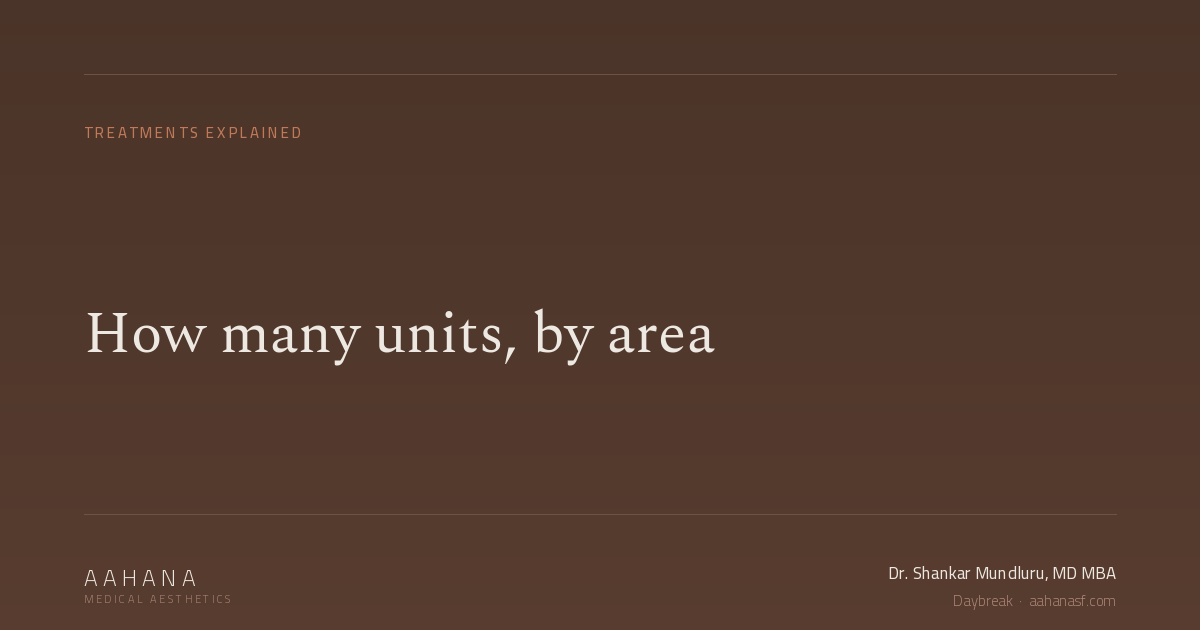
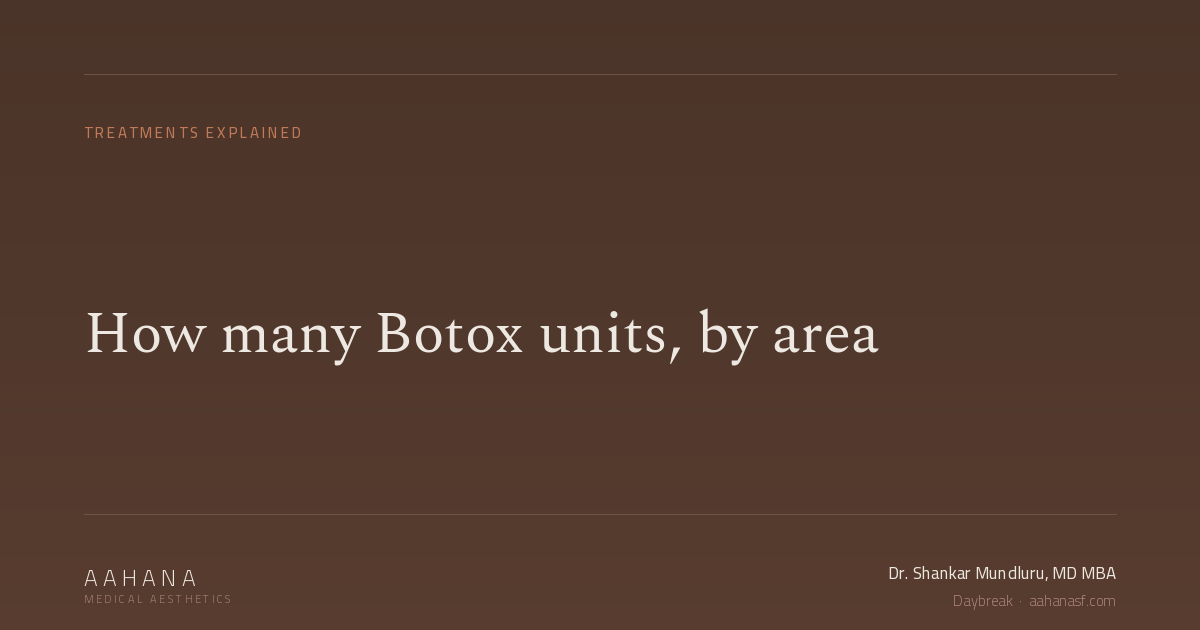
Open areas in a dialog on phones, and name Botox in the title
On a phone the full cards stacked under the diagram, so tapping an area
scrolled the face off screen and getting back meant scrolling up again. Below
860px the cards now collapse to a row each, name, muscle and range with a
chevron, and tapping either the face or a row opens the description in a
dialog that closes back to the image.

The dialog reuses the existing .care classes from service.css, so it is the
same sheet, the same close button and the same backdrop as the pre and post
care modals on the treatment pages rather than a second dialog style.

Compact mode is switched on from script, not from a media query, so with
scripting off every card renders in full and nothing is unreachable. The hint
under the diagram now says something true at each width.

Title is "How many Botox units, by area" through the h1, title tag, og:title,
breadcrumb, both schema blocks, the Daybreak card and llms.txt, and the
preview card is redrawn to match.

Claude-Session: https://claude.ai/code/session_01S5gBpo1ECg2G28LjEFYHVt

Changed region(s): [[0.3083, 0.4825, 0.74, 0.573]]

diff --git a/botox-units.html b/botox-units.html
@@ -8,13 +8,13 @@
   <link rel="apple-touch-icon" href="/apple-touch-icon.png">
   <link rel="manifest" href="/site.webmanifest">
   <meta name="theme-color" content="#4A3328">
-  <title>How Many Units of Botox by Area, San Francisco | Aahana</title>
+  <title>How Many Botox Units by Area, San Francisco | Aahana</title>
   <meta name="description" content="Every area takes a different amount. The unit range for each area of the face and neck, in Botox-equivalent units, what each one treats, and how to compare a Dysport quote.">
   <link rel="canonical" href="https://www.aahanasf.com/botox-units.html">
   <meta name="robots" content="index, follow">
 
   <meta property="og:type" content="article">
-  <meta property="og:title" content="How many units, by area">
+  <meta property="og:title" content="How many Botox units, by area">
   <meta property="og:description" content="A map of every area botulinum toxin treats, the unit range for each in Botox-equivalent units, and what treating it actually does.">
   <meta property="og:url" content="https://www.aahanasf.com/botox-units.html">
   <meta property="og:site_name" content="Aahana Medical Aesthetics">
@@ -24,7 +24,7 @@
   <meta property="og:image" content="https://www.aahanasf.com/og-botox-units.png">
   <meta property="og:image:width" content="1200">
   <meta property="og:image:height" content="630">
-  <meta property="og:image:alt" content="Treatments explained: How many units, by area">
+  <meta property="og:image:alt" content="Treatments explained: How many Botox units, by area">
   <meta name="twitter:card" content="summary_large_image">
 
   <link rel="preconnect" href="https://fonts.googleapis.com">
@@ -38,7 +38,7 @@
       {
         "@type": "Article",
         "@id": "https://www.aahanasf.com/botox-units.html#article",
-        "headline": "How many units of botulinum toxin, by area",
+        "headline": "How many Botox units, by area",
         "description": "The range of botulinum toxin units for each treatment area of the face and neck, in Botox-equivalent units, and what each area does.",
         "datePublished": "2026-10-02",
         "dateModified": "2026-10-02",
@@ -58,7 +58,7 @@
         "@type": "BreadcrumbList",
         "itemListElement": [
           { "@type": "ListItem", "position": 1, "name": "Daybreak", "item": "https://www.aahanasf.com/journal.html" },
-          { "@type": "ListItem", "position": 2, "name": "How many units, by area", "item": "https://www.aahanasf.com/botox-units.html" }
+          { "@type": "ListItem", "position": 2, "name": "How many Botox units, by area", "item": "https://www.aahanasf.com/botox-units.html" }
         ]
       },
       {
@@ -141,9 +141,40 @@
     }
     .area-note { font-size: 13.5px; line-height: 1.7; color: #5A463C; }
     @media (max-width: 860px) {
-      .map-wrap { grid-template-columns: 1fr; gap: 24px; }
+      .map-wrap { grid-template-columns: 1fr; gap: 22px; }
       .map-figure { position: static; max-width: 320px; margin: 0 auto; }
     }
+
+    /* Compact rows on a phone. Switched on by JS only, so with scripting off
+       the full cards render exactly as they do on a desktop and nothing is
+       unreachable. */
+    .hint-narrow { display: none; }
+    .map-wrap[data-compact="on"] .hint-wide   { display: none; }
+    .map-wrap[data-compact="on"] .hint-narrow { display: inline; }
+    .map-wrap[data-compact="on"] .area { position: relative; padding: 13px 38px 13px 16px; }
+    .map-wrap[data-compact="on"] .area-top { margin-bottom: 2px; }
+    .map-wrap[data-compact="on"] .area-note { display: none; }
+    .map-wrap[data-compact="on"] .area-dose { margin: 2px 0 0; font-size: 14px; }
+    .map-wrap[data-compact="on"] .area h3 { font-size: 16.5px; }
+    .map-wrap[data-compact="on"] .area::after {
+      content: ''; position: absolute; right: 17px; top: 50%;
+      width: 7px; height: 7px; margin-top: -4px;
+      border-right: 1.5px solid var(--clay); border-bottom: 1.5px solid var(--clay);
+      transform: rotate(-45deg); pointer-events: none;
+    }
+    .area-more { display: none; }
+    .map-wrap[data-compact="on"] .area-more {
+      display: block; position: absolute; inset: 0;
+      width: 100%; background: none; border: 0; padding: 0;
+      font: inherit; color: transparent; cursor: pointer;
+      border-radius: 3px;
+    }
+    .map-wrap[data-compact="on"] .area-more:focus-visible {
+      outline: 2px solid #8C4426; outline-offset: 2px;
+    }
+    .area-dialog .care-scroll .area-muscle { display: block; margin-bottom: 10px; }
+    .area-dialog .care-scroll .area-dose { font-size: 16px; margin: 0 0 12px; }
+    .area-dialog .care-scroll .area-note { font-size: 15px; line-height: 1.75; }
     @media (prefers-reduced-motion: reduce) {
       .zone, .area { transition: none; }
     }
@@ -161,8 +192,8 @@
 <main id="main">
 <section class="article-hero">
   <div class="article-hero-inner">
-    <div class="breadcrumb"><a href="journal.html">Daybreak</a> &middot; How many units, by area</div>
-    <h1 class="article-title">How many units, by area</h1>
+    <div class="breadcrumb"><a href="journal.html">Daybreak</a> &middot; How many Botox units, by area</div>
+    <h1 class="article-title">How many Botox units, by area</h1>
     <p class="article-dek">Every area takes a different amount, and the range for each is wide. Here is what each part of the face takes, what treating it actually does, and what moves an individual number within the range.</p>
     <div class="article-byline">
       Written by <strong>Dr. Shankar Mundluru, MD MBA</strong><br>
@@ -225,7 +256,7 @@
             <path    class="zone" data-area="neck" d="M166,372 C180,382 220,382 234,372 C240,390 246,402 253,414 L147,414 C154,402 160,390 166,372 Z" tabindex="0" role="button" aria-label="Neck bands"><title>Neck bands</title></path>
           </g>
         </svg>
-        <p class="map-hint">Select an area to highlight it. Every area is listed in full alongside.</p>
+        <p class="map-hint"><span class="hint-wide">Select an area to highlight it. Every area is listed in full alongside.</span><span class="hint-narrow">Tap an area for what it treats and what it takes. Every area is listed below.</span></p>
       </div>
 
       <div class="area-list">
@@ -382,22 +413,48 @@
 /* Links the diagram to the list. Everything the diagram does is a
    convenience: the cards are in the markup and readable without this. */
 (function () {
+  var wrap  = document.querySelector('.map-wrap');
   var zones = document.querySelectorAll('.zone');
   var cards = document.querySelectorAll('.area[data-area]');
-  if (!zones.length) return;
+  if (!wrap || !zones.length) return;
 
-  function setActive(key, scroll) {
+  /* Phones get compact rows plus a dialog; wide screens keep the full cards
+     beside the diagram. The switch is made here rather than in a media query
+     so that with scripting off every card stays fully readable. */
+  var narrow = window.matchMedia('(max-width: 860px)');
+  var reduce = window.matchMedia('(prefers-reduced-motion: reduce)');
+
+  var dlg = document.createElement('dialog');
+  dlg.className = 'care area-dialog';
+  dlg.innerHTML =
+    '<div class="care-head"><h3></h3>' +
+    '<button class="care-close" aria-label="Close"></button></div>' +
+    '<div class="care-scroll"></div>';
+  document.body.appendChild(dlg);
+  var dlgTitle = dlg.querySelector('h3');
+  var dlgBody  = dlg.querySelector('.care-scroll');
+  dlg.querySelector('.care-close').addEventListener('click', function () { dlg.close(); });
+  dlg.addEventListener('click', function (e) { if (e.target === dlg) dlg.close(); });
+
+  function open(key) {
+    var card = document.getElementById('area-' + key);
+    if (!card) return;
+    dlgTitle.textContent = card.querySelector('h3').textContent;
+    dlgBody.innerHTML = '';
+    ['.area-muscle', '.area-dose', '.area-note'].forEach(function (sel) {
+      var el = card.querySelector(sel);
+      if (el) dlgBody.appendChild(el.cloneNode(true));
+    });
+    if (typeof dlg.showModal === 'function') dlg.showModal(); else dlg.setAttribute('open', '');
+  }
+
+  function setActive(key, act) {
     zones.forEach(function (z) { z.classList.toggle('is-active', z.dataset.area === key); });
     cards.forEach(function (c) { c.classList.toggle('is-active', c.dataset.area === key); });
-    if (scroll) {
-      var card = document.getElementById('area-' + key);
-      if (card) {
-        card.scrollIntoView({
-          behavior: window.matchMedia('(prefers-reduced-motion: reduce)').matches ? 'auto' : 'smooth',
-          block: 'start'
-        });
-      }
-    }
+    if (!act) return;
+    if (narrow.matches) { open(key); return; }
+    var card = document.getElementById('area-' + key);
+    if (card) card.scrollIntoView({ behavior: reduce.matches ? 'auto' : 'smooth', block: 'start' });
   }
 
   zones.forEach(function (z) {
@@ -410,8 +467,24 @@
   });
 
   cards.forEach(function (c) {
-    c.addEventListener('mouseenter', function () { setActive(c.dataset.area, false); });
+    c.addEventListener('mouseenter', function () {
+      if (!narrow.matches) setActive(c.dataset.area, false);
+    });
+    var b = document.createElement('button');
+    b.type = 'button';
+    b.className = 'area-more';
+    b.textContent = 'More';
+    b.setAttribute('aria-label',
+      c.querySelector('h3').textContent + ', ' +
+      c.querySelector('.area-dose').textContent + '. Read more');
+    b.addEventListener('click', function () { open(c.dataset.area); });
+    c.appendChild(b);
   });
+
+  function mode() { wrap.setAttribute('data-compact', narrow.matches ? 'on' : 'off'); }
+  if (narrow.addEventListener) narrow.addEventListener('change', mode);
+  else if (narrow.addListener) narrow.addListener(mode);
+  mode();
 })();
 
 const reveals = document.querySelectorAll('.reveal');

diff --git a/journal.html b/journal.html
@@ -658,7 +658,7 @@ a.small-post:hover .small-post-title { color: var(--rose); }
           {
             "@type": "BlogPosting",
             "@id": "https://www.aahanasf.com/botox-units.html#article",
-            "headline": "How many units, by area",
+            "headline": "How many Botox units, by area",
             "url": "https://www.aahanasf.com/botox-units.html",
             "articleSection": "Treatments explained",
             "datePublished": "2026-10-02",
@@ -855,7 +855,7 @@ a.small-post:hover .small-post-title { color: var(--rose); }
             "@type": "ListItem",
             "position": 25,
             "url": "https://www.aahanasf.com/botox-units.html",
-            "name": "How many units, by area"
+            "name": "How many Botox units, by area"
           }
         ]
       },
@@ -936,7 +936,7 @@ a.small-post:hover .small-post-title { color: var(--rose); }
           <div class="small-post-img alt1"><div class="small-img-label">Units</div></div>
           <div class="small-post-body">
             <span class="post-tag">Treatments explained</span>
-            <div class="small-post-title">How many units, by area</div>
+            <div class="small-post-title">How many Botox units, by area</div>
             <p class="small-post-excerpt">Every area takes a different amount, and the approved dose is a starting point rather than a prescription. A map of the face, what each area takes, and why the forehead is never treated on its own.</p>
             <div class="post-meta">October 2, 2026</div>
           </div>
